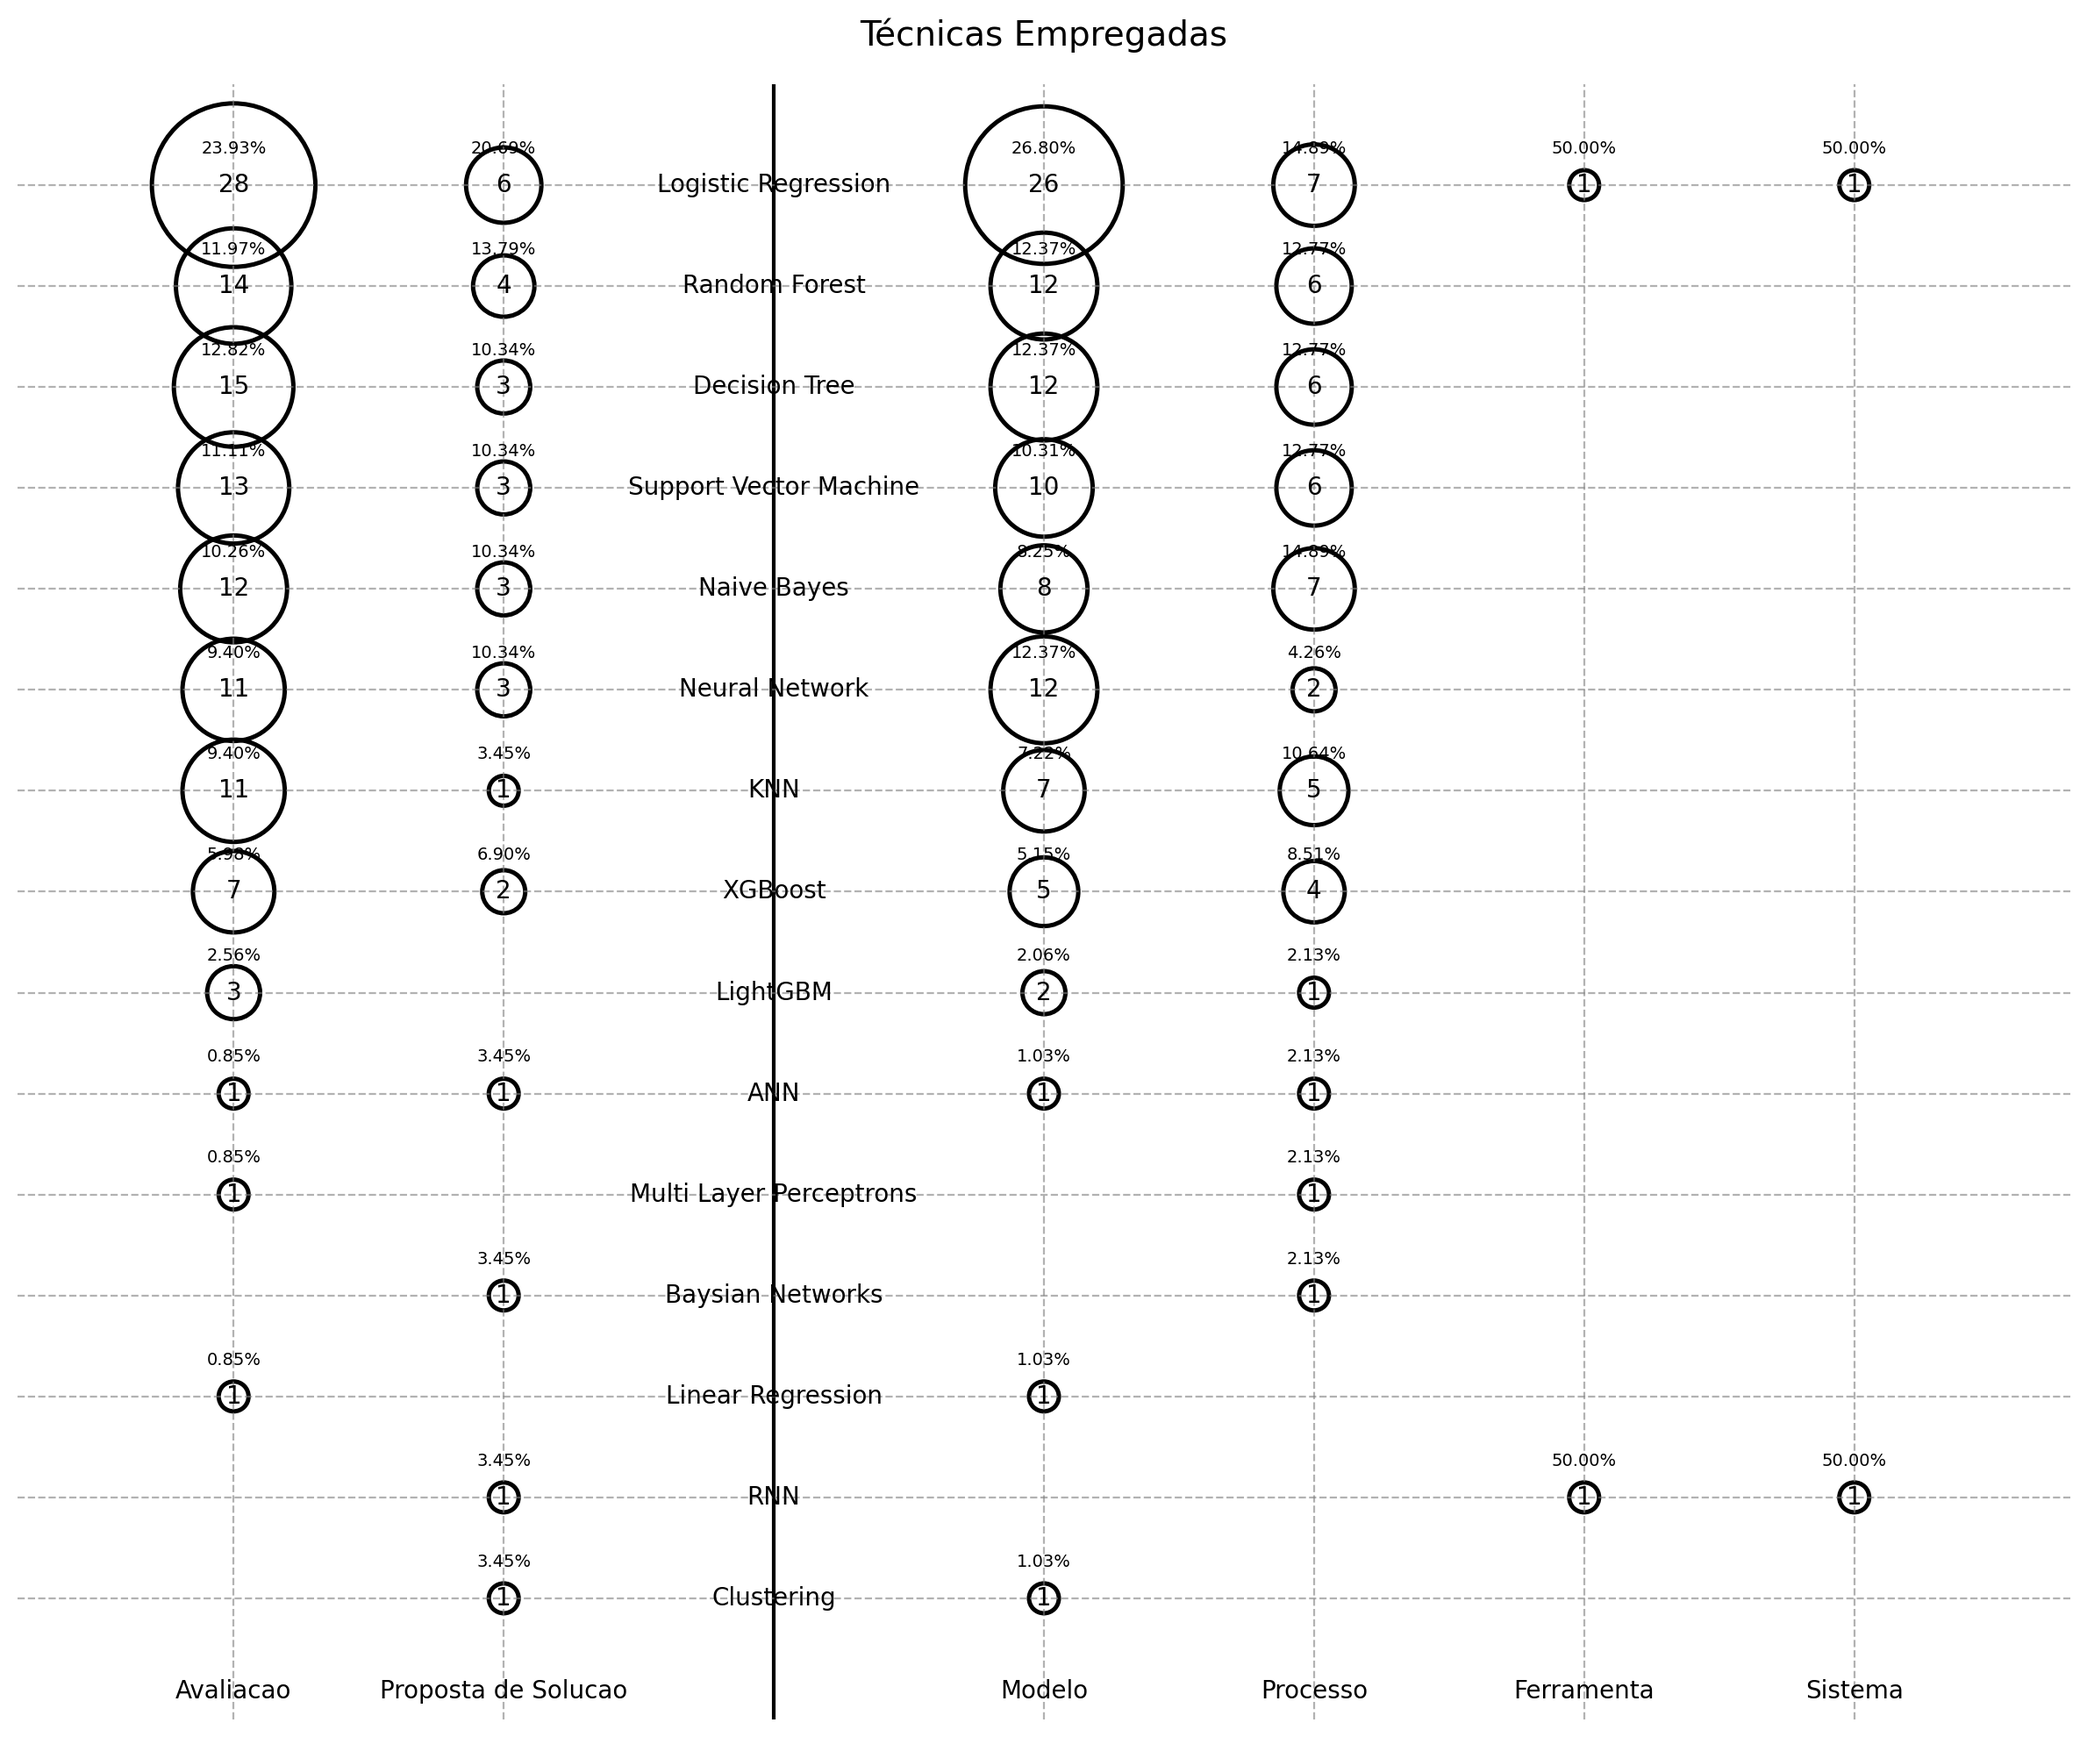
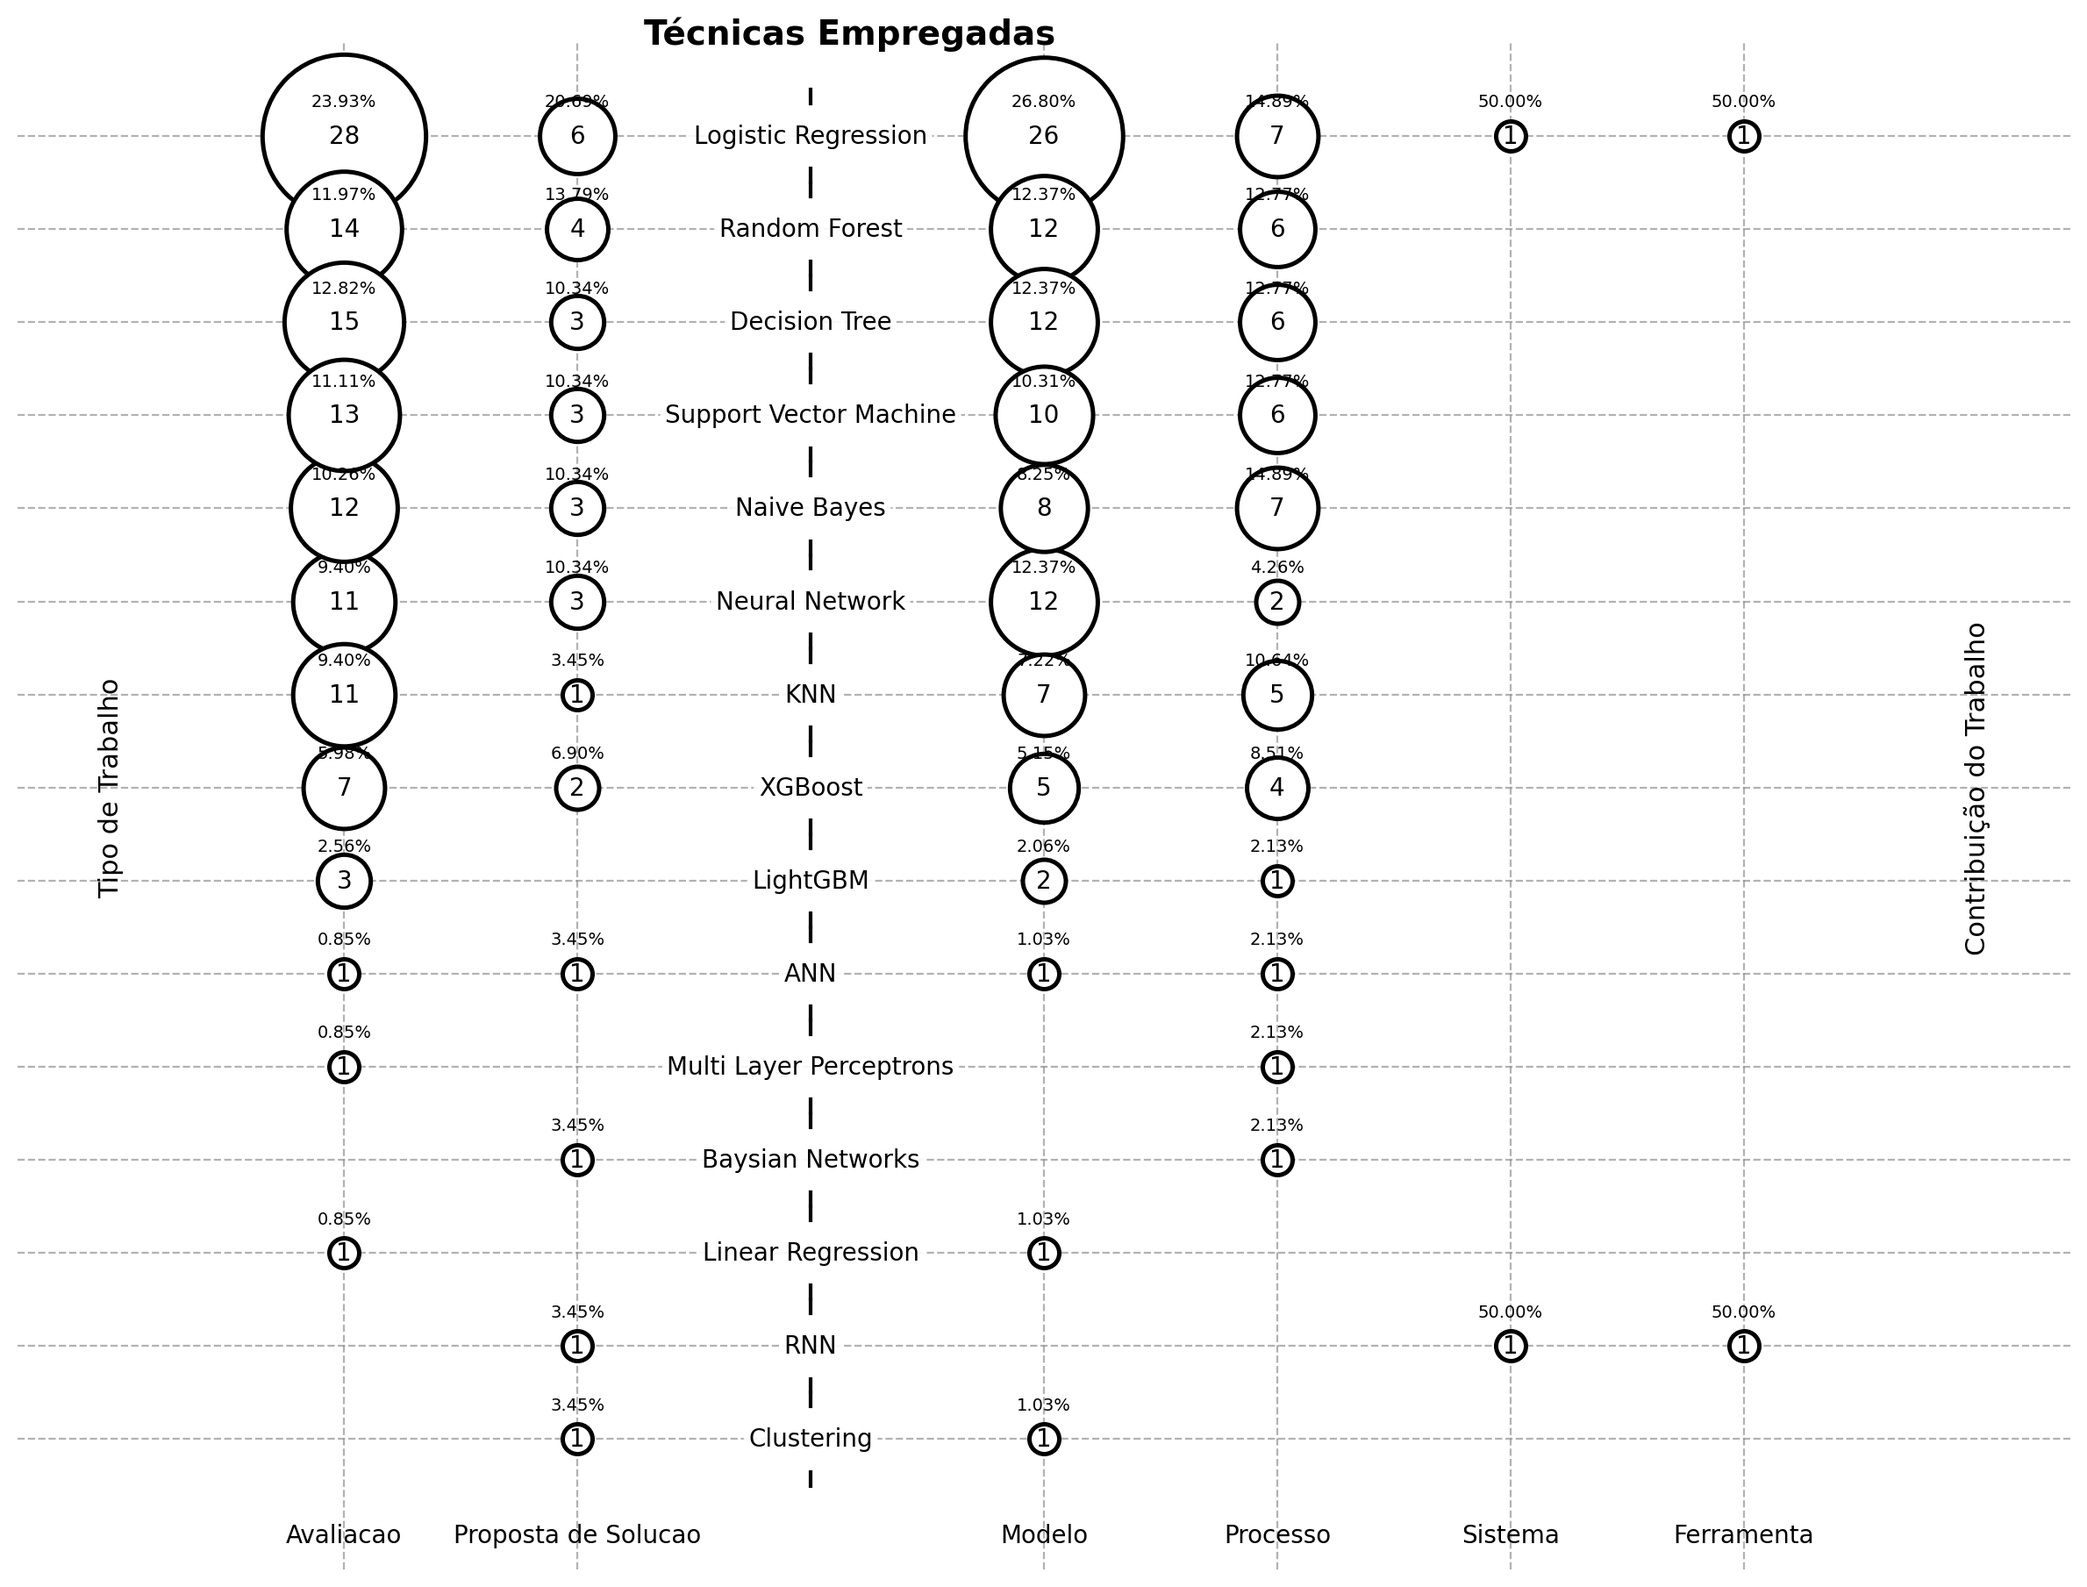
fix: alinha a legenda do eixo principal com o próprio eixo

diff --git a/gera_matrix_bubble_charts.py b/gera_matrix_bubble_charts.py
@@ -1,18 +1,17 @@
 # -*- coding: utf-8 -*-
 """
-Python 3.12 — Matrix Bubble Charts com tratamento de erros.
+Python 3.12 — Matrix Bubble Charts com rotulações completas e linhas atrás das bolhas.
 
-Gera 2 gráficos:
-1) Vertical = "Dados Utilizados"; laterais = "Tipo de Trabalho" (esq.) e "Contribuição do Trabalho" (dir.)
-2) Vertical = "Técnicas Empregadas"; laterais = "Tipo de Trabalho" (esq.) e "Contribuição do Trabalho" (dir.)
+Atualizações pedidas:
+- Rótulos das categorias-eixo: título no topo (Dados Utilizados / Técnicas Empregadas),
+  e rótulos laterais verticais: "Tipo de Trabalho" (esq.) e "Contribuição do Trabalho" (dir.).
+- Linhas da grade passam por trás das bolhas e textos (zorder ajustado).
+- Linha central segmentada (com "vãos" no entorno das legendas verticais).
+- Bolhas preenchidas de branco para esconder a grade atrás (facecolor="white").
 
 Tratamento de erros:
-- Arquivo de entrada inexistente -> mensagem clara e saída com código 1.
-- Formato inválido (não contém as colunas esperadas no padrão do CSV de referência) -> mensagem clara e saída com código 2.
-
-Saída:
-- ./out/<Base>/fig_matrix_dados_utilizados_<Base>.png
-- ./out/<Base>/fig_matrix_tecnicas_empregadas_<Base>.png
+- Arquivo inexistente -> código de saída 1
+- Formato inválido (colunas não encontradas no padrão do CSV de referência) -> saída 2
 """
 
 from __future__ import annotations
@@ -33,6 +32,8 @@ OUT_ROOT = Path("./Graficos/MatrixBubbleCharts")
 SHOW_PERCENT = True          # True = exibe porcentagens nas bolhas
 FIGSIZE = (12, 10)
 DPI = 200
+LEFT_AXIS_NAME = "Tipo de Trabalho"
+RIGHT_AXIS_NAME = "Contribuição do Trabalho"
 # ==================================================
 
 # Colunas esperadas (variações aceitas para compatibilidade)
@@ -154,10 +155,6 @@ def series_to_sets(series: pd.Series) -> list[set[str]]:
     return out
 
 
-def unique_sorted(values: list[str]) -> list[str]:
-    return sorted(set(values), key=lambda s: s.casefold())
-
-
 def cross_count(vert_sets: list[set[str]], side_sets: list[set[str]]) -> dict[tuple[str, str], int]:
     """Conta pares (v, s) por linha (um artigo conta no máximo 1 por par)."""
     counter: Counter[tuple[str, str]] = Counter()
@@ -198,11 +195,15 @@ def plot_matrix_bubble(
     counts_right: dict[tuple[str, str], int],
     show_percent: bool,
     out_path: Path,
+    left_axis_name: str = LEFT_AXIS_NAME,
+    right_axis_name: str = RIGHT_AXIS_NAME,
     figsize: tuple[int, int] = FIGSIZE,
     dpi: int = DPI,
 ) -> None:
     plt.figure(figsize=figsize, dpi=dpi)
     ax = plt.gca()
+    fig = plt.gcf()
+    fig.text(0.31, 0.90, title, ha='left', va='top', fontsize=14, weight='bold')
 
     n_y = len(vert_labels)
     ys = list(range(n_y))[::-1]
@@ -216,55 +217,72 @@ def plot_matrix_bubble(
     def size_for(c: int) -> float:
         return s_min if c <= 1 else s_min + (s_max - s_min) * (c - 1) / (max_count - 1 if max_count > 1 else 1)
 
-    # grade
+    # ------------ GRADE (atrás de tudo) ------------
     all_x = list(x_left.values()) + [0] + list(x_right.values())
-    ax.axvline(0, linewidth=1.5, color="black")
+    # linhas verticais (exceto central), zorder baixo
     for x in all_x:
-        if x != 0:
-            ax.axvline(x, linestyle="--", linewidth=0.8, color="gray", alpha=0.6)
+        if x == 0:
+            continue
+        ax.axvline(x, linestyle="--", linewidth=0.8, color="gray", alpha=0.6, zorder=0)
+    # linhas horizontais
     for y in ys:
-        ax.axhline(y, linestyle="--", linewidth=0.8, color="gray", alpha=0.6)
+        ax.axhline(y, linestyle="--", linewidth=0.8, color="gray", alpha=0.6, zorder=0)
+    # linha central segmentada com "vãos" ao redor dos rótulos verticais
+    for y in ys:
+        gap = 0.35  # tamanho do vão em torno do rótulo
+        ax.plot([0, 0], [y + 0.5, y + gap], color="black", linewidth=1.5, zorder=0)
+        ax.plot([0, 0], [y - gap, y - 0.5], color="black", linewidth=1.5, zorder=0)
 
-    # labels verticais (centro)
-    for v in vert_labels:
-        ax.text(0, y_pos[v], v, ha="center", va="center", fontsize=10)
-
-    # rótulos de colunas
+    # ------------ TEXTOS DE EIXO / TÍTULO ------------
+    # rótulos de colunas (em baixo)
     for lbl, x in x_left.items():
-        ax.text(x, -0.8, lbl, ha="center", va="top", fontsize=10)
+        ax.text(x, -0.9, lbl, ha="center", va="top", fontsize=10, zorder=3)
     for lbl, x in x_right.items():
-        ax.text(x, -0.8, lbl, ha="center", va="top", fontsize=10)
+        ax.text(x, -0.9, lbl, ha="center", va="top", fontsize=10, zorder=3)
+    # rótulos laterais verticais (nomes dos eixos horizontais)
+    y_mid = (max(ys) - 0) / 2
+    ax.text(min(all_x) - 1.0, y_mid, left_axis_name, rotation=90, va="center", ha="center", fontsize=11, zorder=3)
+    ax.text(max(all_x) + 1.0, y_mid, right_axis_name, rotation=90, va="center", ha="center", fontsize=11, zorder=3)
 
+    # ------------ RÓTULOS DO EIXO VERTICAL ------------
+    for v in vert_labels:
+        # fundo branco para evitar qualquer linha passando por trás do texto
+        ax.text(0, y_pos[v], v, ha="center", va="center", fontsize=10,
+                bbox=dict(boxstyle="round,pad=0.2", fc="white", ec="none", alpha=0.9), zorder=2.5)
+
+    # totais por coluna para calcular %
     tot_left = totals_per_side(counts_left)
     tot_right = totals_per_side(counts_right)
 
-    # esquerda
+    # ------------ BOLHAS (na frente da grade) ------------
     for (v, s), c in counts_left.items():
         if c <= 0: 
             continue
-        ax.scatter([x_left[s]], [y_pos[v]], s=size_for(c), facecolors="none", edgecolors="black", linewidths=1.8)
-        ax.text(x_left[s], y_pos[v], f"{c}", ha="center", va="center", fontsize=10)
+        ax.scatter([x_left[s]], [y_pos[v]], s=size_for(c),
+                   facecolors="white", edgecolors="black", linewidths=1.8, zorder=3)
+        ax.text(x_left[s], y_pos[v], f"{c}", ha="center", va="center", fontsize=10, zorder=4)
         if show_percent and tot_left.get(s, 0) > 0:
             pct = 100.0 * c / tot_left[s]
-            ax.text(x_left[s], y_pos[v] + 0.28, f"{pct:.2f}%", ha="center", va="bottom", fontsize=7)
+            ax.text(x_left[s], y_pos[v] + 0.28, f"{pct:.2f}%", ha="center", va="bottom", fontsize=7, zorder=4)
 
-    # direita
     for (v, s), c in counts_right.items():
         if c <= 0: 
             continue
-        ax.scatter([x_right[s]], [y_pos[v]], s=size_for(c), facecolors="none", edgecolors="black", linewidths=1.8)
-        ax.text(x_right[s], y_pos[v], f"{c}", ha="center", va="center", fontsize=10)
+        ax.scatter([x_right[s]], [y_pos[v]], s=size_for(c),
+                   facecolors="white", edgecolors="black", linewidths=1.8, zorder=3)
+        ax.text(x_right[s], y_pos[v], f"{c}", ha="center", va="center", fontsize=10, zorder=4)
         if show_percent and tot_right.get(s, 0) > 0:
             pct = 100.0 * c / tot_right[s]
-            ax.text(x_right[s], y_pos[v] + 0.28, f"{pct:.2f}%", ha="center", va="bottom", fontsize=7)
+            ax.text(x_right[s], y_pos[v] + 0.28, f"{pct:.2f}%", ha="center", va="bottom", fontsize=7, zorder=4)
 
-    ax.set_title(title, fontsize=14, pad=16)
-    ax.set_xlim(min(all_x) - 0.8, max(all_x) + 0.8)
-    ax.set_ylim(-1.2, max(ys) + 1)
+    # limites, margem e esconder eixos
+    x_min, x_max = min(all_x) - 1.4, max(all_x) + 1.4
+    ax.set_xlim(x_min, x_max)
+    ax.set_ylim(-1.4, max(ys) + 1.0)
     ax.axis("off")
 
     out_path.parent.mkdir(parents=True, exist_ok=True)
-    plt.tight_layout()
+    plt.tight_layout(rect=(0, 0, 1, 0.9))
     plt.savefig(out_path, dpi=dpi, bbox_inches="tight")
     plt.close()
 
@@ -309,7 +327,6 @@ def build_and_plot(csv_path: Path, show_percent: bool = SHOW_PERCENT) -> None:
     left_labels  = sort_by_freq(tipo_sets)
     right_labels = sort_by_freq(contrib_sets)
 
-    # Se alguma dimensão estiver vazia, é formato válido mas sem dados -> erro claro
     if not vert_dados and not vert_tecs:
         print("[ERRO] As colunas de eixo vertical estão vazias após o parsing. Verifique os dados.", file=sys.stderr)
         sys.exit(2)
@@ -321,14 +338,6 @@ def build_and_plot(csv_path: Path, show_percent: bool = SHOW_PERCENT) -> None:
         sys.exit(2)
 
     # 6) Contagens cruzadas
-    def cross_count(vert_sets: list[set[str]], side_sets: list[set[str]]) -> dict[tuple[str, str], int]:
-        counter: Counter[tuple[str, str]] = Counter()
-        for vset, sset in zip(vert_sets, side_sets):
-            for v in vset:
-                for s in sset:
-                    counter[(v, s)] += 1
-        return dict(counter)
-
     counts_dados_left   = cross_count(dados_sets, tipo_sets)
     counts_dados_right  = cross_count(dados_sets, contrib_sets)
     counts_tecs_left    = cross_count(tecs_sets,  tipo_sets)
